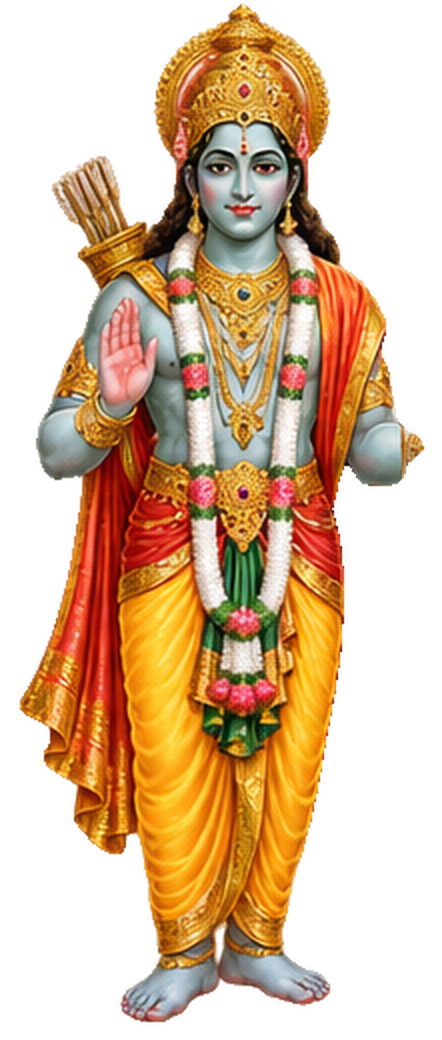
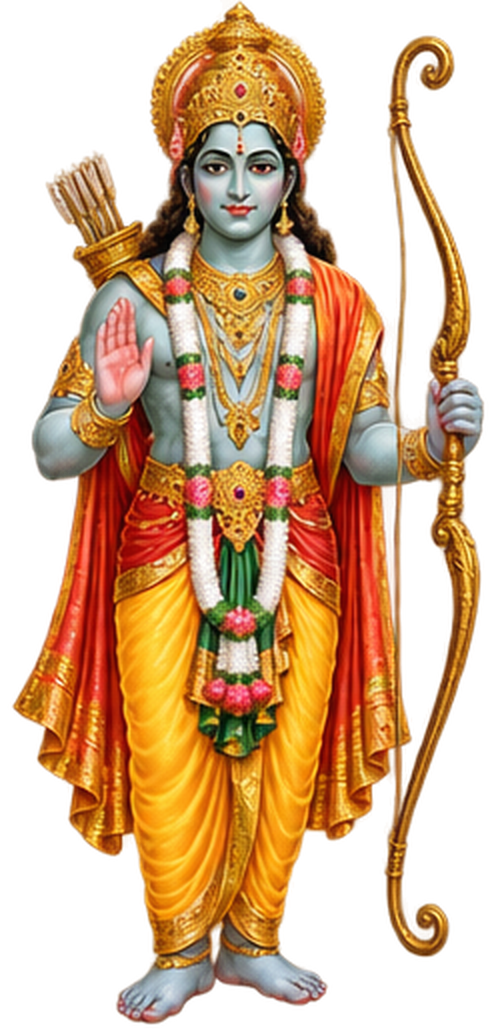
My Mandir: 8 new deities selectable, corrected transparent deity art (Lakshmi etc.), aarti lights the diyas, fit idols to niche

diff --git a/components/screens/mandir.tsx b/components/screens/mandir.tsx
@@ -21,7 +21,28 @@ const FLOWERS_BY_DEITY: Record<string, string[]> = {
   hanuman: ["marigold", "rose"],
   durga: ["hibiscus", "rose", "marigold"],
   ganesha: ["hibiscus", "marigold"],
+  lakshmi: ["lotus", "marigold", "rose"],
+  vishnu: ["tulsi", "lotus", "marigold"],
+  ram: ["marigold", "rose", "tulsi"],
+  saraswati: ["jasmine", "lotus"],
+  surya: ["marigold", "hibiscus"],
+  shani: ["kaner", "marigold"],
+  kartikeya: ["marigold", "jasmine", "rose"],
+  radhakrishna: ["lotus", "rose", "tulsi"],
 };
+// Deities beyond the catalog's first five — each has its own illustration
+// (/spot/deity-<id>.png) and aarti (/aarti/<id>.mp3).
+const EXTRA_GODS: God[] = [
+  { id: "lakshmi", name: "Maa Lakshmi", deva: "माँ लक्ष्मी", color: "#C0392B", tagline: "Giver of prosperity", aarti: "Om Jai Lakshmi Mata" },
+  { id: "vishnu", name: "Shri Vishnu", deva: "श्री विष्णु", color: "#2E5B9A", tagline: "Preserver of the universe", aarti: "Om Jai Jagdish Hare" },
+  { id: "ram", name: "Shri Ram", deva: "श्री राम", color: "#3F7F86", tagline: "Maryada Purushottam", aarti: "Aarti Shri Ramchandra Kripalu" },
+  { id: "saraswati", name: "Maa Saraswati", deva: "माँ सरस्वती", color: "#7A8CA8", tagline: "Goddess of wisdom", aarti: "Jai Saraswati Mata" },
+  { id: "surya", name: "Surya Dev", deva: "सूर्य देव", color: "#D9822B", tagline: "The radiant Sun", aarti: "Om Jai Surya Bhagwan" },
+  { id: "shani", name: "Shani Dev", deva: "शनि देव", color: "#2B3F73", tagline: "Lord of karma and justice", aarti: "Jai Jai Shani Dev" },
+  { id: "kartikeya", name: "Kartikeya", deva: "कार्तिकेय", color: "#C9772B", tagline: "The divine commander", aarti: "Shri Kartikey Aarati" },
+  { id: "radhakrishna", name: "Radha-Krishna", deva: "राधा-कृष्ण", color: "#D46A9A", tagline: "Divine love", aarti: "Aarti Yugal Kishore Ki" },
+];
+
 const DEFAULT_FLOWERS = ["marigold", "rose", "jasmine"];
 
 type Petal = { id: number; x: number; slug: string; rot: number; dur: number };
@@ -39,7 +60,8 @@ const AARTI_Y = Array.from({ length: AARTI_N + 1 }, (_, k) =>
 
 export function MandirScreen() {
   const { back, deityId, setDeity, addPunya, haptic } = useApp();
-  const gods = useCatalog(getDeities, DEITIES) as unknown as God[];
+  const catalogGods = useCatalog(getDeities, DEITIES) as unknown as God[];
+  const gods = [...catalogGods, ...EXTRA_GODS.filter((g) => !catalogGods.some((c) => c.id === g.id))];
   const deity = gods.find((g) => g.id === deityId) ?? gods[0];
 
   useEffect(() => { preloadTempleSounds(); }, []);
@@ -108,9 +130,10 @@ export function MandirScreen() {
   function toggleAarti() {
     if (aarti) { setAarti(false); stopSong(); return; }
     setAarti(true);
+    setLit(true); // the aarti begins with the diyas lit
     startSong();
     bell(540, 1.8, 0.18);
-    checkDarshan(lit, true);
+    checkDarshan(true, true);
   }
 
   // stop the song when the deity changes or the screen closes
@@ -220,7 +243,7 @@ export function MandirScreen() {
               <img src="/mandir/shrine-bg.png" alt="" className="absolute inset-0 h-full w-full object-cover" />
 
               {/* deity seated in the arch niche, resting on the platform */}
-              <div className="absolute left-1/2 -translate-x-1/2" style={{ bottom: "15.5%", width: "60%", height: "66%" }}>
+              <div className="absolute left-1/2 -translate-x-1/2" style={{ bottom: "15.5%", width: "40%", height: "50%" }}>
                 <div
                   className="pointer-events-none absolute left-1/2 top-1/2 h-[135%] w-[135%] -translate-x-1/2 -translate-y-1/2"
                   style={{ background: "radial-gradient(circle, rgba(255,224,158,0.42) 0%, rgba(255,208,124,0) 62%)" }}
